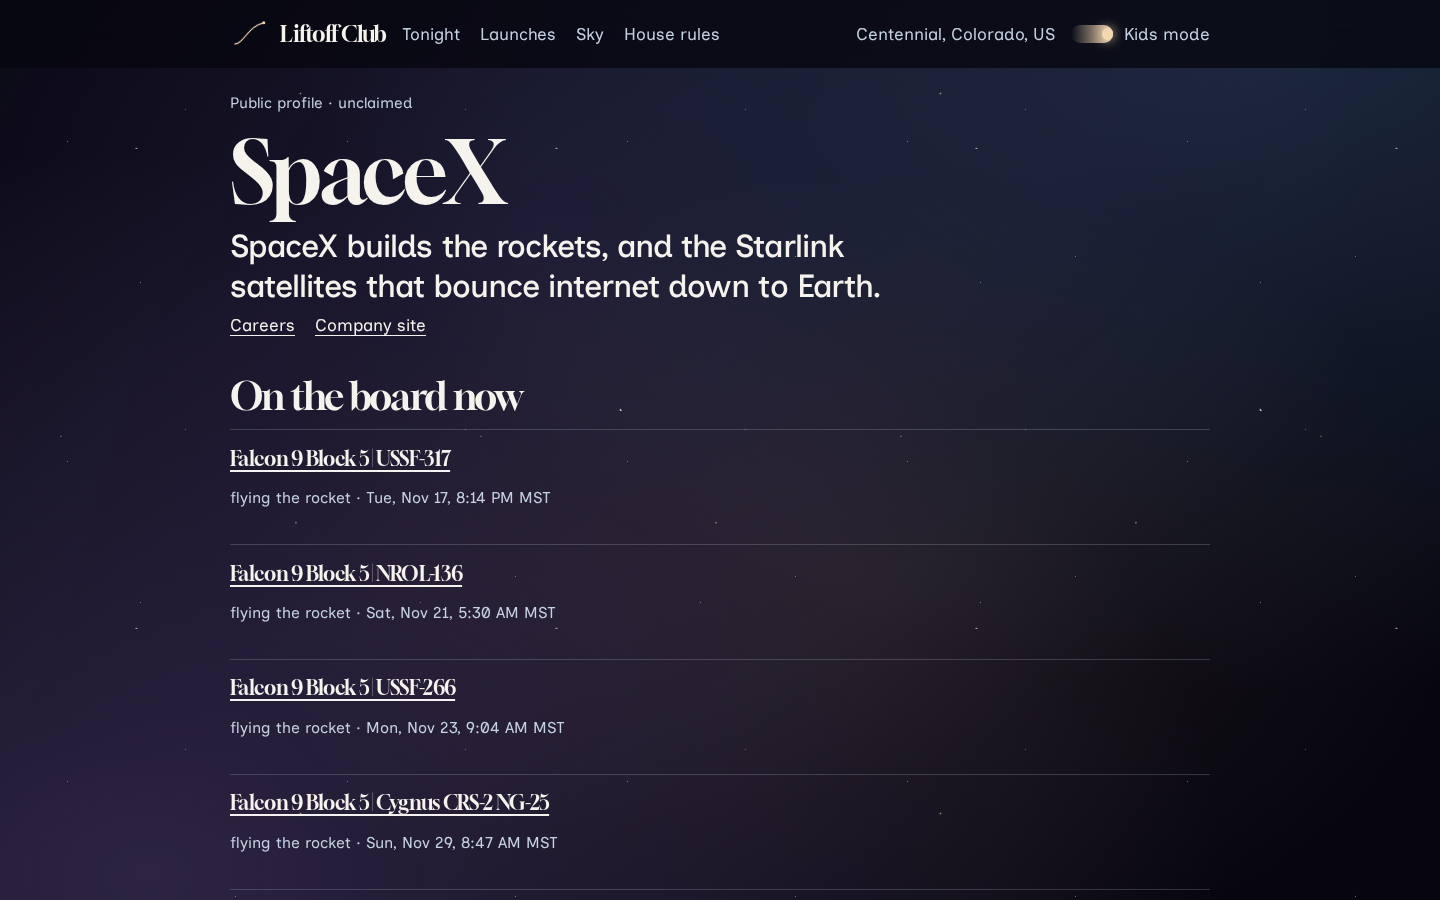
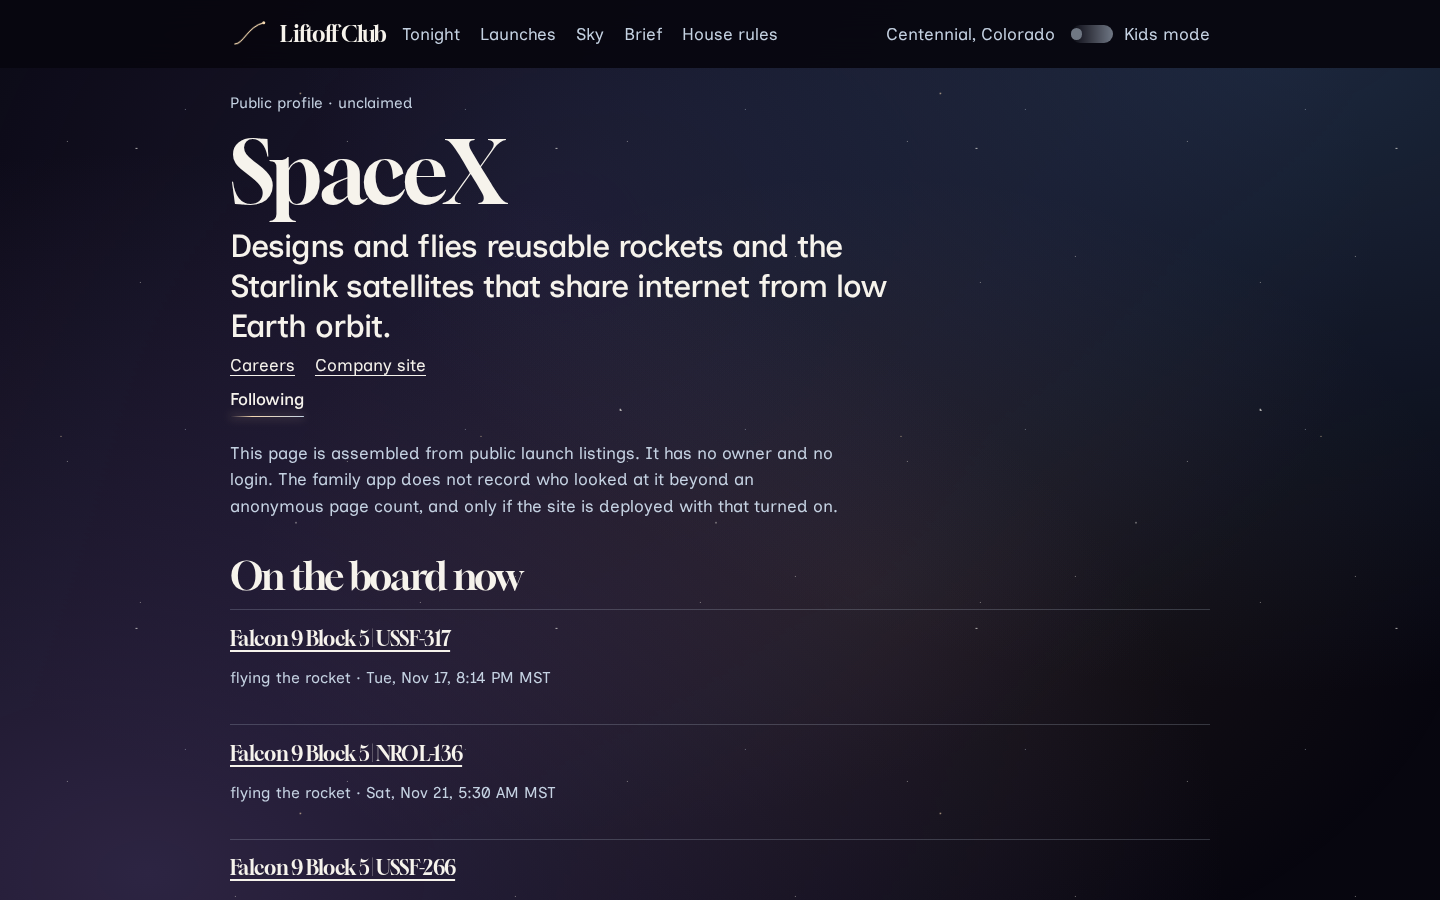
Show followed flights in local time and refresh the new screens.
The follow list names every flight for a saved company and prints the time in the saved town. Screenshots cover the grown up launch record, the brief, the rules, and who is flying what.

diff --git a/app/companies/[slug]/page.tsx b/app/companies/[slug]/page.tsx
@@ -2,7 +2,7 @@ import type { Metadata } from 'next'
 import Link from 'next/link'
 import { notFound } from 'next/navigation'
 import { LocalTime } from '@/components/local-time'
-import { FollowList } from '@/components/follow-list'
+import { FollowList, type FollowRosterItem } from '@/components/follow-list'
 import { companyPage, companiesOnBoard } from '@/lib/company-board'
 import { listCatalog } from '@/lib/companies'
 import { getLaunches } from '@/lib/launches'
@@ -39,16 +39,23 @@ export default async function CompanyProfilePage({ params }: { params: Promise<{
   const page = companyPage(slug, board.launches)
   if (!page) notFound()
   const { company, flights } = page
-  const roster = companiesOnBoard(board.launches).map((item) => {
-    const next = companyPage(item.slug, board.launches)?.flights[0]
-    return {
-      slug: item.slug,
-      name: item.name,
-      launchId: next?.launchId ?? null,
-      launchName: next?.launchName ?? null,
-      net: next?.net ?? null,
+  const roster: FollowRosterItem[] = []
+  for (const item of companiesOnBoard(board.launches)) {
+    const listed = companyPage(item.slug, board.launches)?.flights ?? []
+    if (listed.length === 0) {
+      roster.push({ slug: item.slug, name: item.name, launchId: null, launchName: null, net: null })
+      continue
     }
-  })
+    for (const flight of listed) {
+      roster.push({
+        slug: item.slug,
+        name: item.name,
+        launchId: flight.launchId,
+        launchName: flight.launchName,
+        net: flight.net,
+      })
+    }
+  }
   return (
     <main id="content" className="wrap page">
       <p className="kicker">Public profile · unclaimed</p>
@@ -69,6 +76,7 @@ export default async function CompanyProfilePage({ params }: { params: Promise<{
           </a>
         ) : null}
       </div>
+      <FollowList slug={company.slug} roster={roster} buttonOnly />
       <p className="note when-adult">
         This page is assembled from public launch listings. It has no owner and no login. The family app does not record who looked at it beyond an anonymous page count, and only if the site is deployed with that turned on.
       </p>
@@ -94,7 +102,7 @@ export default async function CompanyProfilePage({ params }: { params: Promise<{
           ))}
         </ul>
       </section>
-      <FollowList slug={company.slug} roster={roster} />
+      <FollowList slug={company.slug} roster={roster} listOnly />
     </main>
   )
 }

diff --git a/components/follow-list.tsx b/components/follow-list.tsx
@@ -2,6 +2,7 @@
 
 import { useSyncExternalStore } from 'react'
 import Link from 'next/link'
+import { LocalTime } from '@/components/local-time'
 import { FOLLOWS_KEY, toggleFollow } from '@/lib/follows'
 
 export type FollowRosterItem = {
@@ -42,28 +43,47 @@ function write(next: string[]) {
   listeners.forEach((listener) => listener())
 }
 
-export function FollowList({ slug, roster }: { slug: string; roster: FollowRosterItem[] }) {
+export function FollowList({
+  slug,
+  roster,
+  buttonOnly = false,
+  listOnly = false,
+}: {
+  slug: string
+  roster: FollowRosterItem[]
+  buttonOnly?: boolean
+  listOnly?: boolean
+}) {
   const follows = useSyncExternalStore(subscribe, read, () => [] as string[])
   const on = follows.includes(slug)
   const rows = roster.filter((item) => follows.includes(item.slug))
+  const button = (
+    <button className="btn" type="button" aria-pressed={on} onClick={() => write(toggleFollow(follows, slug))}>
+      {on ? 'Following' : 'Follow this company'}
+    </button>
+  )
+  if (buttonOnly) return button
   return (
     <section>
-      <button className="btn" type="button" aria-pressed={on} onClick={() => write(toggleFollow(follows, slug))}>
-        {on ? 'Following' : 'Follow this company'}
-      </button>
+      {listOnly ? null : button}
       <p className="kicker">Who you follow</p>
       <h2>Who is flying what</h2>
       {rows.length === 0 ? <p className="note">Follow a company and its next flight shows up here, on this device only.</p> : null}
       <ul className="jobs">
         {rows.map((item) => (
-          <li key={item.slug}>
+          <li key={`${item.slug}-${item.launchId ?? 'none'}`}>
             <h3>
               <Link href={`/companies/${item.slug}`}>{item.name}</Link>
             </h3>
             {item.launchId && item.launchName ? (
               <p className="meta">
                 <Link href={`/launches/${item.launchId}`}>{item.launchName}</Link>
-                {item.net ? ` · ${item.net}` : ''}
+                {item.net ? (
+                  <>
+                    {' · '}
+                    <LocalTime iso={item.net} />
+                  </>
+                ) : null}
               </p>
             ) : (
               <p className="note">Nothing on the current board.</p>

diff --git a/app/globals.css b/app/globals.css
@@ -120,7 +120,7 @@ a:hover { color: var(--core); }
   position: sticky;
   top: 0;
   z-index: 20;
-  background: rgba(7, 6, 15, 0.78);
+  background: rgba(7, 6, 15, 0.94);
   backdrop-filter: blur(16px);
 }
 .topbar-inner {

diff --git a/README.md b/README.md
@@ -16,6 +16,10 @@ Night sky, one warm signal color, and type set like a storybook next to a missio
 
 ![A launch, in kids mode, with the flight plate](docs/screenshots/04-detail-desktop.png)
 
+![The same launch with kids mode off: booster history, customers, and public delay notes](docs/screenshots/19-detail-adult-desktop.png)
+
+![Today’s brief from Centennial](docs/screenshots/21-brief-desktop.png)
+
 ![Launch day mode, sized for a TV or an iPad](docs/screenshots/06-day-desktop.png)
 
 ![Passes over Centennial, with a real no-go for clouds](docs/screenshots/07-sky-desktop.png)
